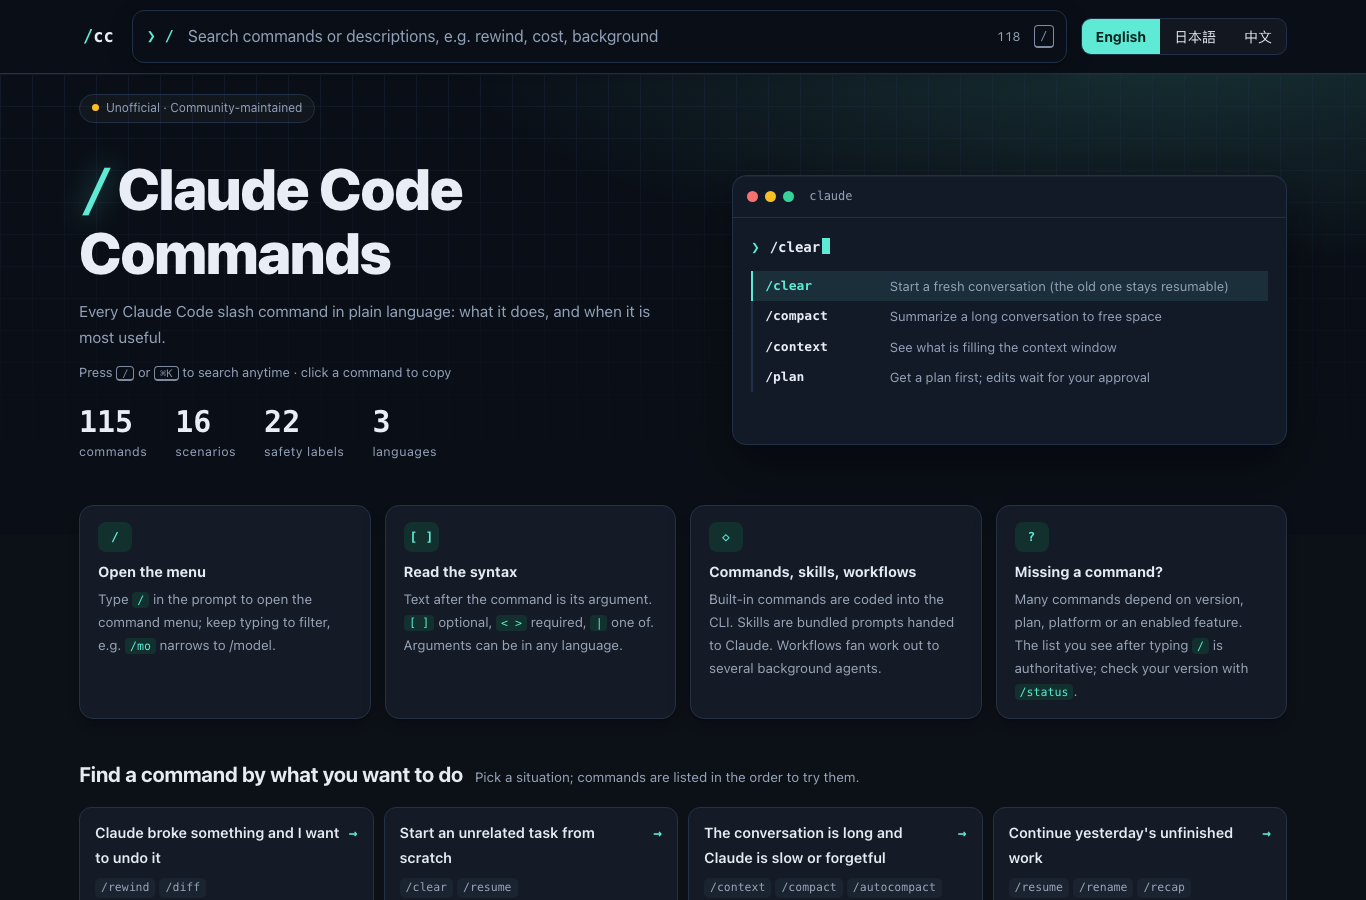
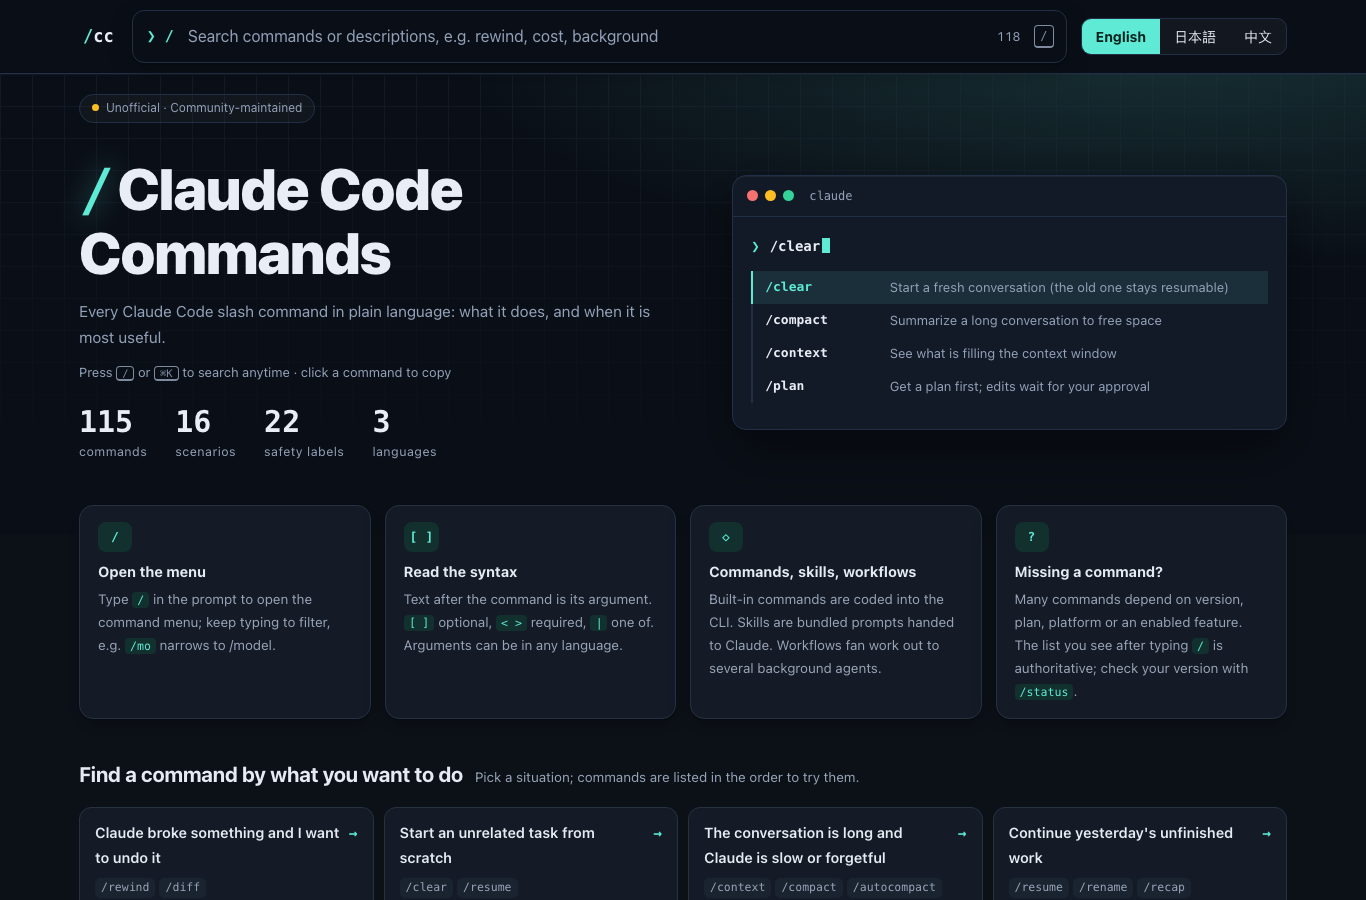
Keep the hero terminal demo a fixed height
The demo menu emptied while a command was being typed and long
descriptions wrapped, so the terminal grew and shrank and pushed the
centered headline up and down. The menu now filters live as it types,
always shows four single-line rows, and the hero columns align to the
top.

Changed region(s): [[0.6457, 0.3111, 0.8917, 0.4356], [0.5534, 0.3111, 0.6149, 0.4356], [0.5534, 0.2178, 0.5842, 0.2489]]

diff --git a/docs/index.html b/docs/index.html
@@ -2,7 +2,7 @@
 <html lang="en">
 <meta charset="utf-8">
 <meta name="viewport" content="width=device-width, initial-scale=1, viewport-fit=cover">
-<meta http-equiv="Content-Security-Policy" content="default-src 'none'; img-src 'self' data:; style-src 'sha256-kQhxyrfmfWW+CoVXdhHKNceMQrjUCO3+s4AzJItvUvQ='; script-src 'sha256-aKimGwImP+BYlT7am7CQ+8l8nCG17Xb1m5qrLiQMZxg='; base-uri 'none'; form-action 'none'">
+<meta http-equiv="Content-Security-Policy" content="default-src 'none'; img-src 'self' data:; style-src 'sha256-AlJb/y5i3qco4puqNDnTiYo25ZgjTeq9yBt39Xfu5ms='; script-src 'sha256-iBWad2pqObCL+FrsWvl1OKKsn8kN8sHdf+FTPhSptq4='; base-uri 'none'; form-action 'none'">
 <meta property="og:type" content="website">
 <meta property="og:title" content="Claude Code Commands · English / 日本語 / 中文">
 <meta property="og:description" content="Every Claude Code slash command explained in English, Japanese and Chinese. Unofficial.">
@@ -70,7 +70,7 @@ body::before{content:"";position:fixed;inset:0 0 auto;height:env(safe-area-inset
 .langs{display:flex;border:1px solid var(--hero-line);border-radius:10px;overflow:hidden;background:rgba(255,255,255,.04)}
 .langs button{border:0;background:transparent;color:var(--hero-ink);padding:6px 14px;cursor:pointer;font-size:14px}
 .langs button[aria-pressed="true"]{background:var(--phos);color:#06201d;font-weight:700}
-.hero-grid{display:grid;grid-template-columns:minmax(0,1.05fr) minmax(0,.95fr);gap:40px;align-items:center;margin-top:34px}
+.hero-grid{display:grid;grid-template-columns:minmax(0,1.05fr) minmax(0,.95fr);gap:40px;align-items:start;margin-top:34px}
 @media (max-width:900px){.hero-grid{grid-template-columns:1fr;gap:26px;margin-top:24px}}
 h1{font-size:clamp(32px,5.4vw,58px);font-weight:900;line-height:1.08;margin:0 0 14px;letter-spacing:-.02em;text-wrap:balance}
 h1 .slash{font-family:var(--font-mono);color:var(--phos);font-weight:700;margin-right:.08em;text-shadow:0 0 24px rgba(94,234,212,.45)}
@@ -84,18 +84,20 @@ h1 .slash{font-family:var(--font-mono);color:var(--phos);font-weight:700;margin-
 .term-bar i{width:11px;height:11px;border-radius:50%;background:#3a465c;display:inline-block}
 .term-bar i:nth-child(1){background:#f87171}.term-bar i:nth-child(2){background:#fbbf24}.term-bar i:nth-child(3){background:#34d399}
 .term-bar span{margin-left:8px;font-family:var(--font-mono)}
-.term-body{padding:18px 18px 20px;font-family:var(--font-mono);font-size:14px;min-height:226px}
+.term-body{padding:18px 18px 20px;font-family:var(--font-mono);font-size:14px;height:212px;overflow:hidden}
+.term{margin-top:18px}
+@media (max-width:900px){.term{margin-top:0}}
 .prompt-line{display:flex;gap:10px;align-items:baseline;flex-wrap:wrap}
 .prompt-line .p{color:var(--phos)}
 .typed{color:var(--hero-ink);font-weight:700}
 .caret{display:inline-block;width:8px;height:1.1em;background:var(--phos);vertical-align:-2px;margin-left:2px;animation:blink 1s steps(1) infinite}
 @keyframes blink{50%{opacity:0}}
-.menu{margin:12px 0 0;padding:0;list-style:none;border-left:2px solid var(--hero-line)}
-.menu li{display:flex;gap:14px;padding:4px 12px;font-size:13px;color:var(--hero-muted);min-width:0}
+.menu{margin:12px 0 0;padding:0;list-style:none;border-left:2px solid var(--hero-line);height:132px}
+.menu li{display:flex;gap:14px;padding:0 12px;height:33px;align-items:center;font-size:13px;color:var(--hero-muted);min-width:0;white-space:nowrap}
 .menu li b{color:var(--hero-ink);font-weight:600;flex:none;min-width:8.5em}
 .menu li.on{background:rgba(94,234,212,.1);border-left:2px solid var(--phos);margin-left:-2px}
 .menu li.on b{color:var(--phos)}
-.menu li span{min-width:0;font-family:var(--font-zh)}
+.menu li span{min-width:0;overflow:hidden;text-overflow:ellipsis;font-family:var(--font-zh)}
 html[lang="ja"] .menu li span{font-family:var(--font-ja)}
 html[lang="en"] .menu li span{font-family:var(--font-en)}
 
@@ -579,11 +581,15 @@ function scrollToList(){
 // Hero terminal: types an editor's pick, then shows a slash-menu of related commands.
 const DEMO = CMDS.filter(c => c.pick);
 let demoI = 0, demoTimer = null;
-function menuFor(c){
-  const rest = CMDS.filter(x => x.cat === c.cat && x !== c && x.kind !== "removed").slice(0, 3);
-  return [c, ...rest].map((x, i) => `<li class="${i ? "" : "on"}"><b>${esc(x.cmd)}</b><span>${esc((x.short || x.desc)[lang].replace(/`/g, "").split(/[。．.]\s?/)[0])}</span></li>`).join("");
+// Menu narrows as the command is typed; the target is pinned first, so rows never disappear.
+function menuFor(c, typed){
+  const live = CMDS.filter(x => x.kind !== "removed" && x !== c);
+  const hits = live.filter(x => x.cmd.startsWith(typed));
+  const fill = live.filter(x => x.cat === c.cat && !hits.includes(x));
+  const rows = [c, ...hits, ...fill].slice(0, 4);
+  return rows.map((x, i) => `<li class="${i ? "" : "on"}"><b>${esc(x.cmd)}</b><span>${esc((x.short || x.desc)[lang].replace(/`/g, "").split(/[。．.]\s?/)[0])}</span></li>`).join("");
 }
-function demoShow(c, typed){ $("typed").textContent = typed; $("menu").innerHTML = typed === c.cmd ? menuFor(c) : ""; }
+function demoShow(c, typed){ $("typed").textContent = typed; $("menu").innerHTML = menuFor(c, typed); }
 function demoReset(){
   clearTimeout(demoTimer);
   const c = DEMO[demoI % DEMO.length];

diff --git a/site/template.html b/site/template.html
@@ -60,7 +60,7 @@ body::before{content:"";position:fixed;inset:0 0 auto;height:env(safe-area-inset
 .langs{display:flex;border:1px solid var(--hero-line);border-radius:10px;overflow:hidden;background:rgba(255,255,255,.04)}
 .langs button{border:0;background:transparent;color:var(--hero-ink);padding:6px 14px;cursor:pointer;font-size:14px}
 .langs button[aria-pressed="true"]{background:var(--phos);color:#06201d;font-weight:700}
-.hero-grid{display:grid;grid-template-columns:minmax(0,1.05fr) minmax(0,.95fr);gap:40px;align-items:center;margin-top:34px}
+.hero-grid{display:grid;grid-template-columns:minmax(0,1.05fr) minmax(0,.95fr);gap:40px;align-items:start;margin-top:34px}
 @media (max-width:900px){.hero-grid{grid-template-columns:1fr;gap:26px;margin-top:24px}}
 h1{font-size:clamp(32px,5.4vw,58px);font-weight:900;line-height:1.08;margin:0 0 14px;letter-spacing:-.02em;text-wrap:balance}
 h1 .slash{font-family:var(--font-mono);color:var(--phos);font-weight:700;margin-right:.08em;text-shadow:0 0 24px rgba(94,234,212,.45)}
@@ -74,18 +74,20 @@ h1 .slash{font-family:var(--font-mono);color:var(--phos);font-weight:700;margin-
 .term-bar i{width:11px;height:11px;border-radius:50%;background:#3a465c;display:inline-block}
 .term-bar i:nth-child(1){background:#f87171}.term-bar i:nth-child(2){background:#fbbf24}.term-bar i:nth-child(3){background:#34d399}
 .term-bar span{margin-left:8px;font-family:var(--font-mono)}
-.term-body{padding:18px 18px 20px;font-family:var(--font-mono);font-size:14px;min-height:226px}
+.term-body{padding:18px 18px 20px;font-family:var(--font-mono);font-size:14px;height:212px;overflow:hidden}
+.term{margin-top:18px}
+@media (max-width:900px){.term{margin-top:0}}
 .prompt-line{display:flex;gap:10px;align-items:baseline;flex-wrap:wrap}
 .prompt-line .p{color:var(--phos)}
 .typed{color:var(--hero-ink);font-weight:700}
 .caret{display:inline-block;width:8px;height:1.1em;background:var(--phos);vertical-align:-2px;margin-left:2px;animation:blink 1s steps(1) infinite}
 @keyframes blink{50%{opacity:0}}
-.menu{margin:12px 0 0;padding:0;list-style:none;border-left:2px solid var(--hero-line)}
-.menu li{display:flex;gap:14px;padding:4px 12px;font-size:13px;color:var(--hero-muted);min-width:0}
+.menu{margin:12px 0 0;padding:0;list-style:none;border-left:2px solid var(--hero-line);height:132px}
+.menu li{display:flex;gap:14px;padding:0 12px;height:33px;align-items:center;font-size:13px;color:var(--hero-muted);min-width:0;white-space:nowrap}
 .menu li b{color:var(--hero-ink);font-weight:600;flex:none;min-width:8.5em}
 .menu li.on{background:rgba(94,234,212,.1);border-left:2px solid var(--phos);margin-left:-2px}
 .menu li.on b{color:var(--phos)}
-.menu li span{min-width:0;font-family:var(--font-zh)}
+.menu li span{min-width:0;overflow:hidden;text-overflow:ellipsis;font-family:var(--font-zh)}
 html[lang="ja"] .menu li span{font-family:var(--font-ja)}
 html[lang="en"] .menu li span{font-family:var(--font-en)}
 
@@ -569,11 +571,15 @@ function scrollToList(){
 // Hero terminal: types an editor's pick, then shows a slash-menu of related commands.
 const DEMO = CMDS.filter(c => c.pick);
 let demoI = 0, demoTimer = null;
-function menuFor(c){
-  const rest = CMDS.filter(x => x.cat === c.cat && x !== c && x.kind !== "removed").slice(0, 3);
-  return [c, ...rest].map((x, i) => `<li class="${i ? "" : "on"}"><b>${esc(x.cmd)}</b><span>${esc((x.short || x.desc)[lang].replace(/`/g, "").split(/[。．.]\s?/)[0])}</span></li>`).join("");
+// Menu narrows as the command is typed; the target is pinned first, so rows never disappear.
+function menuFor(c, typed){
+  const live = CMDS.filter(x => x.kind !== "removed" && x !== c);
+  const hits = live.filter(x => x.cmd.startsWith(typed));
+  const fill = live.filter(x => x.cat === c.cat && !hits.includes(x));
+  const rows = [c, ...hits, ...fill].slice(0, 4);
+  return rows.map((x, i) => `<li class="${i ? "" : "on"}"><b>${esc(x.cmd)}</b><span>${esc((x.short || x.desc)[lang].replace(/`/g, "").split(/[。．.]\s?/)[0])}</span></li>`).join("");
 }
-function demoShow(c, typed){ $("typed").textContent = typed; $("menu").innerHTML = typed === c.cmd ? menuFor(c) : ""; }
+function demoShow(c, typed){ $("typed").textContent = typed; $("menu").innerHTML = menuFor(c, typed); }
 function demoReset(){
   clearTimeout(demoTimer);
   const c = DEMO[demoI % DEMO.length];
